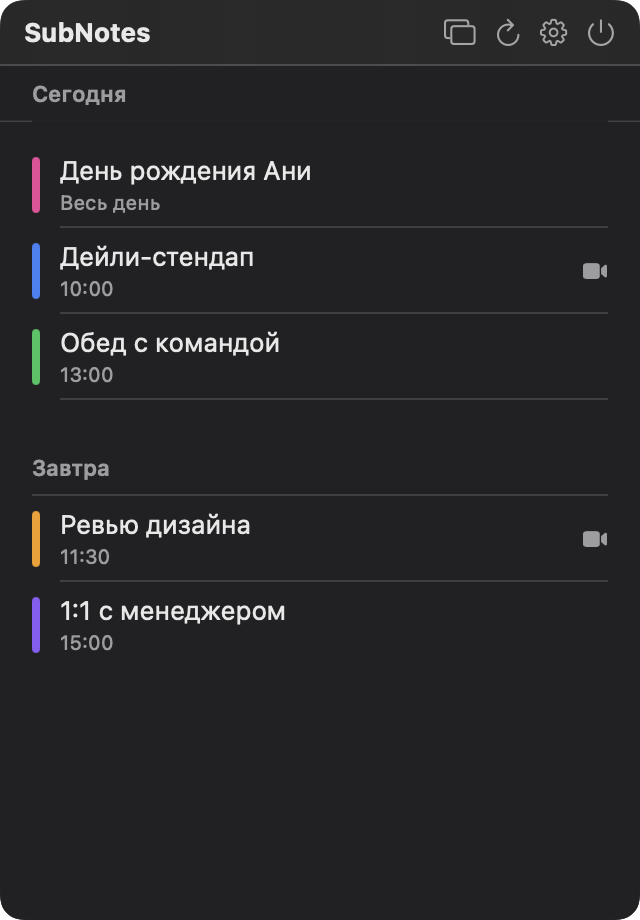
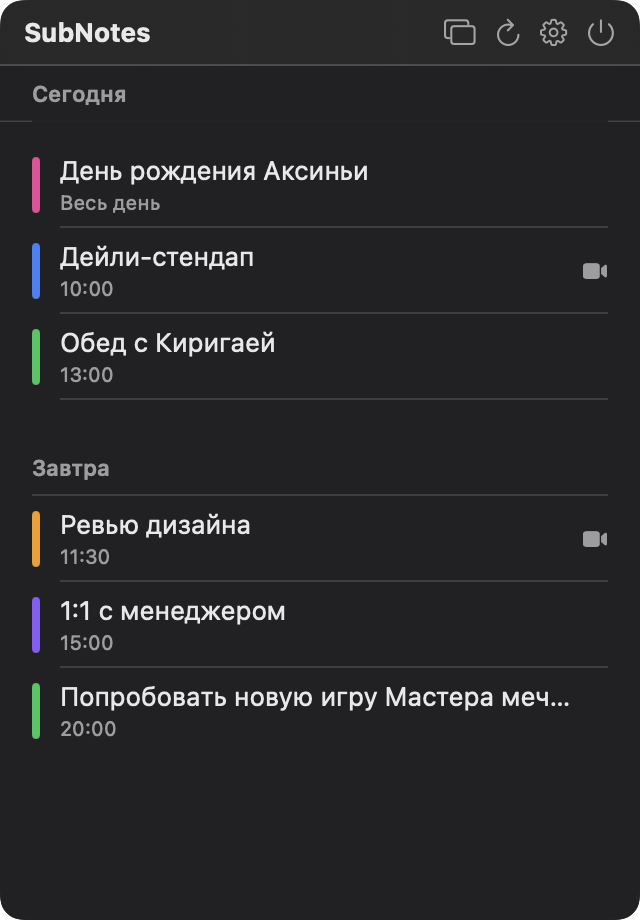
feat(App): обновить demo-события (Аксинья, Киригая, +SAO) и перестроить скрин
DemoData: «День рождения Ани» → «Аксиньи», «Обед с командой» → «с Киригаей»,
добавлено последнее событие «Попробовать новую игру Мастера меча онлайн».
Скрин поповера переснят.

diff --git a/Sources/App/DemoMode.swift b/Sources/App/DemoMode.swift
@@ -42,16 +42,19 @@ enum DemoData {
         CalEvent(id: "d1", title: "Дейли-стендап", start: today(10, 0), end: today(10, 15),
                  calendarColorHex: "#3B82F6", calendarTitle: "Работа",
                  location: "Zoom", videoLink: meet),
-        CalEvent(id: "d2", title: "Обед с командой", start: today(13, 0), end: today(14, 0),
+        CalEvent(id: "d2", title: "Обед с Киригаей", start: today(13, 0), end: today(14, 0),
                  calendarColorHex: "#22C55E", calendarTitle: "Личное",
                  location: "Кафе «Орбита»"),
-        CalEvent(id: "d3", title: "День рождения Ани", start: today(0, 0), end: today(23, 59),
+        CalEvent(id: "d3", title: "День рождения Аксиньи", start: today(0, 0), end: today(23, 59),
                  isAllDay: true, calendarColorHex: "#EC4899", calendarTitle: "Семья"),
         CalEvent(id: "d4", title: "Ревью дизайна", start: tomorrow(11, 30), end: tomorrow(12, 30),
                  calendarColorHex: "#F59E0B", calendarTitle: "Работа",
                  location: "Переговорка 4", videoLink: meet),
         CalEvent(id: "d5", title: "1:1 с менеджером", start: tomorrow(15, 0), end: tomorrow(15, 30),
                  calendarColorHex: "#8B5CF6", calendarTitle: "Работа"),
+        CalEvent(id: "d6", title: "Попробовать новую игру Мастера меча онлайн",
+                 start: tomorrow(20, 0), end: tomorrow(22, 0),
+                 calendarColorHex: "#22C55E", calendarTitle: "Личное"),
     ]
 
     /// The event shown on the reminder overlay (carries a Meet link so the